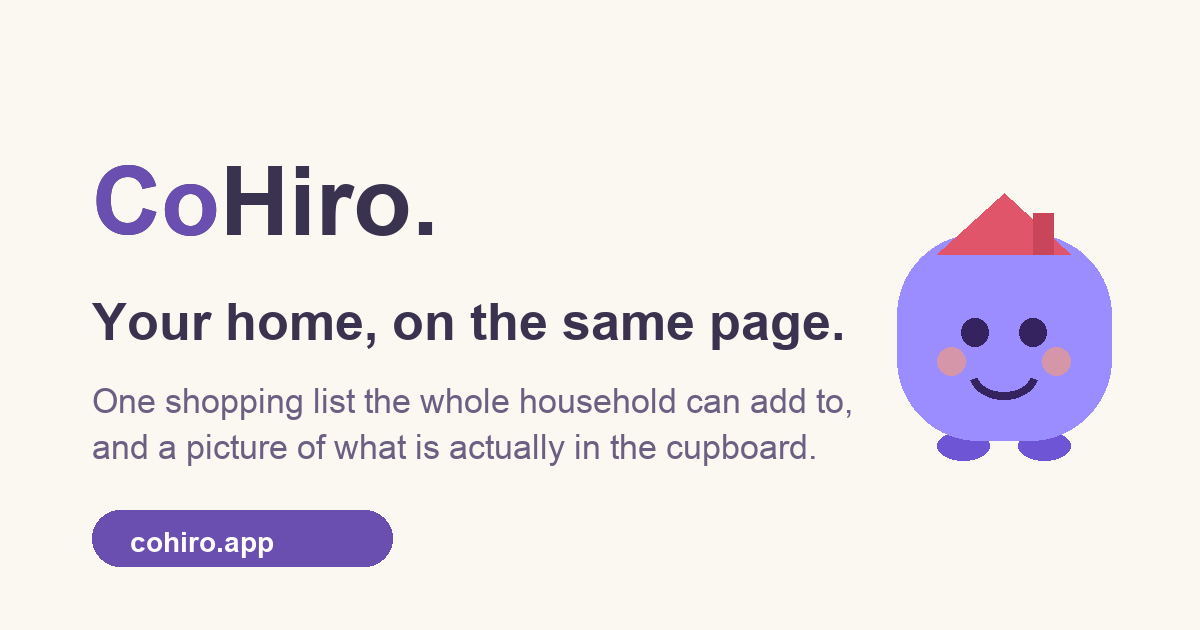
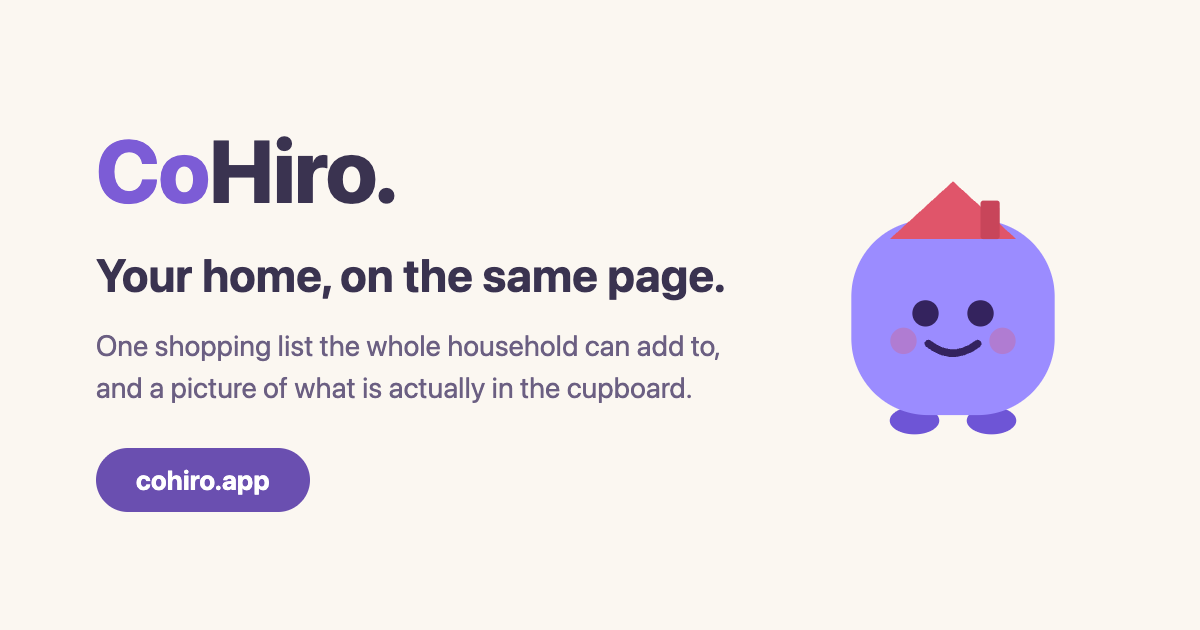
The preview card survives its first real look: true Pip, centered pill, an invite card of its own
Owner review of the first WhatsApp-rendered invite card (2026-09-01) found three
things: the cohiro.app pill text sat left of its pill's center, Pip was an
off-model freehand redraw (floating roof, detached chimney, wrong body lilac),
and the homepage banner's own headline fought the join page's og:title right
beneath it - one card saying two things.

og.png is regenerated from a VERSIONED source (og-src/og.html) whose Pip is the
shipped geometry copied verbatim from the app's Pip.tsx; the first og.png had no
source anywhere, which is why nothing could be fixed without rebuilding. The
join pages (/join/, /de/join/) now carry their own nearly-wordless og-join.png -
a second Pip arriving to join the first - so the og:title does the talking.
Locale-neutral: one image serves both languages. Scrapers cache per URL and
every invite link is unique (?c=), so new shares pick this up immediately.

Changed region(s): [[0.0617, 0.2111, 0.925, 0.754], [0.0617, 0.6937, 0.6783, 0.9048]]

diff --git a/og-src/og-join.html b/og-src/og-join.html
@@ -1,0 +1,85 @@
+<!doctype html>
+<html lang="en">
+<head>
+<meta charset="utf-8">
+<!--
+  SOURCE for /og-join.png - the INVITE-specific preview card on /join/ and /de/join/, 1200x630.
+  Regenerate:
+    "/Applications/Google Chrome.app/Contents/MacOS/Google Chrome" --headless \
+      --screenshot=og-join.png --window-size=1200,630 --hide-scrollbars \
+      "file://$(pwd)/og-src/og-join.html"
+  WHY A SEPARATE CARD (owner review, 2026-09-01): the homepage banner carries its own headline
+  and tagline, which then fight the join page's og:title ("You have been invited...") rendered
+  right beneath it by every chat app - one card saying two things. This card carries almost no
+  words (locale-neutral: one image serves /join/ and /de/join/) and lets the og:title speak.
+  The picture IS the message: a second Pip arriving to join the first - a household growing.
+  Both Pips are the shipped geometry from app/src/components/Pip.tsx (listr repo): the big one
+  in the 'happy' pose (closed smiling eyes, wider smile), the arriving one standard.
+-->
+<style>
+  * { margin: 0; padding: 0; box-sizing: border-box; }
+  html, body { width: 1200px; height: 630px; }
+  body {
+    background: #FBF7F1;
+    font-family: -apple-system, BlinkMacSystemFont, "Segoe UI", Roboto, Helvetica, Arial, sans-serif;
+    position: relative;
+    overflow: hidden;
+  }
+  .wordmark { position: absolute; top: 56px; left: 72px; font-size: 54px; font-weight: 800; color: #3A3350; letter-spacing: -0.5px; }
+  .wordmark .co { color: #7C5CD6; }
+  .pill {
+    position: absolute;
+    bottom: 60px;
+    left: 72px;
+    display: inline-flex;
+    align-items: center;
+    justify-content: center;
+    background: #6A4FB0;
+    color: #FFFFFF;
+    font-size: 27px;
+    font-weight: 700;
+    border-radius: 999px;
+    padding: 16px 40px;
+  }
+  .duo { position: absolute; right: 100px; bottom: 8px; }
+  /* Ground alignment: css bottom + (svgHeight - foot-bottom-px) must match across the two.
+     big 430px: 60 + 46.6 = ~107. small 240px: 81 + 26 = 107. */
+  .pip-big { position: absolute; right: 230px; bottom: 60px; }
+  .pip-small { position: absolute; right: 106px; bottom: 81px; }
+</style>
+</head>
+<body>
+  <div class="wordmark"><span class="co">Co</span>Hiro.</div>
+  <div class="pill">cohiro.app</div>
+
+  <div class="duo" style="width: 560px; height: 560px;">
+    <!-- The household Pip, happy pose: geometry from Pip.tsx pose="happy" -->
+    <svg class="pip-big" viewBox="0 0 120 120" width="430" height="430">
+      <ellipse cx="46" cy="102" rx="9" ry="5" fill="#6E55D6"/>
+      <ellipse cx="74" cy="102" rx="9" ry="5" fill="#6E55D6"/>
+      <rect x="23" y="29" width="74" height="71" rx="28" fill="#9B8CFF"/>
+      <path d="M37 36 L60 15 L83 36 Z" fill="#E0556A"/>
+      <rect x="70" y="22" width="7" height="14" rx="1" fill="#C8455A"/>
+      <circle cx="42" cy="73" r="4.8" fill="#E0556A" opacity="0.3"/>
+      <circle cx="78" cy="73" r="4.8" fill="#E0556A" opacity="0.3"/>
+      <path d="M45 64 Q50 58 55 64" stroke="#34235E" stroke-width="2.8" fill="none" stroke-linecap="round"/>
+      <path d="M65 64 Q70 58 75 64" stroke="#34235E" stroke-width="2.8" fill="none" stroke-linecap="round"/>
+      <path d="M49 73 Q60 83 71 73" stroke="#34235E" stroke-width="2.8" fill="none" stroke-linecap="round"/>
+    </svg>
+    <!-- The arriving Pip: standard pose, the icon-variant deeper lilac so the two read as
+         two people, mirrored to face the big one. -->
+    <svg class="pip-small" viewBox="0 0 120 120" width="240" height="240" style="transform: scaleX(-1);">
+      <ellipse cx="46" cy="102" rx="9" ry="5" fill="#6E55D6"/>
+      <ellipse cx="74" cy="102" rx="9" ry="5" fill="#6E55D6"/>
+      <rect x="23" y="29" width="74" height="71" rx="28" fill="#8B5CF6"/>
+      <path d="M37 36 L60 15 L83 36 Z" fill="#E0556A"/>
+      <rect x="70" y="22" width="7" height="14" rx="1" fill="#C8455A"/>
+      <circle cx="42" cy="73" r="4.8" fill="#E0556A" opacity="0.3"/>
+      <circle cx="78" cy="73" r="4.8" fill="#E0556A" opacity="0.3"/>
+      <circle cx="50" cy="63" r="4.8" fill="#34235E"/>
+      <circle cx="70" cy="63" r="4.8" fill="#34235E"/>
+      <path d="M51 74 Q60 81 69 74" stroke="#34235E" stroke-width="2.8" fill="none" stroke-linecap="round"/>
+    </svg>
+  </div>
+</body>
+</html>

diff --git a/og-src/og.html b/og-src/og.html
@@ -1,0 +1,68 @@
+<!doctype html>
+<html lang="en">
+<head>
+<meta charset="utf-8">
+<!--
+  SOURCE for /og.png (the sitewide social preview card), 1200x630.
+  Regenerate:
+    "/Applications/Google Chrome.app/Contents/MacOS/Google Chrome" --headless \
+      --screenshot=og.png --window-size=1200,630 --hide-scrollbars \
+      "file://$(pwd)/og-src/og.html"
+  This file exists because the first og.png had no source anywhere: its Pip was a freehand
+  redraw (floating roof, detached chimney, wrong body lilac) and the pill text sat left of
+  center, and nothing could be fixed without rebuilding from scratch (owner review of the
+  first real WhatsApp card, 2026-09-01). The Pip below is the SHIPPED geometry, copied
+  verbatim from app/src/components/Pip.tsx (listr repo) with the theme's exact fills.
+  Colors are the site tokens from style.css.
+-->
+<style>
+  * { margin: 0; padding: 0; box-sizing: border-box; }
+  html, body { width: 1200px; height: 630px; }
+  body {
+    background: #FBF7F1;
+    font-family: -apple-system, BlinkMacSystemFont, "Segoe UI", Roboto, Helvetica, Arial, sans-serif;
+    display: flex;
+    align-items: center;
+  }
+  .text { padding-left: 96px; }
+  h1 { font-size: 88px; font-weight: 800; color: #3A3350; letter-spacing: -1px; }
+  h1 .co { color: #7C5CD6; }
+  .tagline { margin-top: 26px; font-size: 46px; font-weight: 700; color: #3A3350; }
+  .body { margin-top: 22px; font-size: 29px; line-height: 1.45; color: #6B5F82; white-space: nowrap; }
+  .pill {
+    margin-top: 40px;
+    display: inline-flex;
+    align-items: center;
+    justify-content: center;
+    background: #6A4FB0;
+    color: #FFFFFF;
+    font-size: 27px;
+    font-weight: 700;
+    border-radius: 999px;
+    padding: 16px 40px;
+  }
+  .pip { position: absolute; right: 82px; top: 50%; transform: translateY(-53%); }
+</style>
+</head>
+<body>
+  <div class="text">
+    <h1><span class="co">Co</span>Hiro.</h1>
+    <div class="tagline">Your home, on the same page.</div>
+    <div class="body">One shopping list the whole household can add to,<br>and a picture of what is actually in the cupboard.</div>
+    <div class="pill">cohiro.app</div>
+  </div>
+  <!-- Pip, standard pose: verbatim geometry from app/src/components/Pip.tsx -->
+  <svg class="pip" viewBox="0 0 120 120" width="330" height="330">
+    <ellipse cx="46" cy="102" rx="9" ry="5" fill="#6E55D6"/>
+    <ellipse cx="74" cy="102" rx="9" ry="5" fill="#6E55D6"/>
+    <rect x="23" y="29" width="74" height="71" rx="28" fill="#9B8CFF"/>
+    <path d="M37 36 L60 15 L83 36 Z" fill="#E0556A"/>
+    <rect x="70" y="22" width="7" height="14" rx="1" fill="#C8455A"/>
+    <circle cx="42" cy="73" r="4.8" fill="#E0556A" opacity="0.3"/>
+    <circle cx="78" cy="73" r="4.8" fill="#E0556A" opacity="0.3"/>
+    <circle cx="50" cy="63" r="4.8" fill="#34235E"/>
+    <circle cx="70" cy="63" r="4.8" fill="#34235E"/>
+    <path d="M51 74 Q60 81 69 74" stroke="#34235E" stroke-width="2.8" fill="none" stroke-linecap="round"/>
+  </svg>
+</body>
+</html>

diff --git a/de/join/index.html b/de/join/index.html
@@ -68,7 +68,7 @@
 <meta property="og:url" content="https://cohiro.app/de/join/">
 <meta property="og:title" content="Du wurdest zu einem Haushalt bei CoHiro eingeladen">
 <meta property="og:description" content="Jemand möchte eine Einkaufsliste und einen Vorrat mit dir teilen.">
-<meta property="og:image" content="https://cohiro.app/og.png">
+<meta property="og:image" content="https://cohiro.app/og-join.png">
 <meta property="og:image:width" content="1200">
 <meta property="og:image:height" content="630">
 <meta property="og:site_name" content="CoHiro">

diff --git a/join/index.html b/join/index.html
@@ -35,7 +35,7 @@
 <meta property="og:url" content="https://cohiro.app/join/">
 <meta property="og:title" content="You have been invited to a household on CoHiro">
 <meta property="og:description" content="Someone wants to share a shopping list and household inventory with you.">
-<meta property="og:image" content="https://cohiro.app/og.png">
+<meta property="og:image" content="https://cohiro.app/og-join.png">
 <meta property="og:image:width" content="1200">
 <meta property="og:image:height" content="630">
 <meta property="og:site_name" content="CoHiro">
